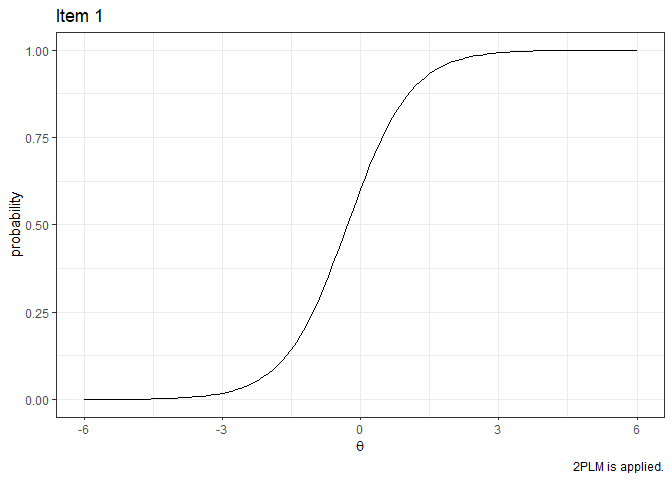
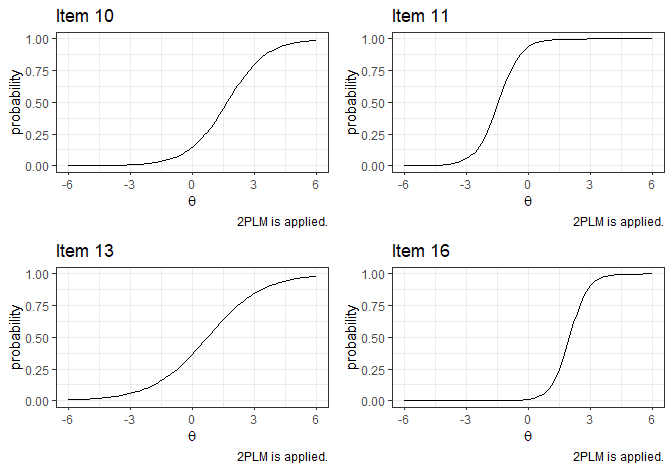
revise readme file

diff --git a/README.md b/README.md
@@ -27,21 +27,17 @@ distribution:
 + empirical histogram method,  
 + two-component Gaussian mixture distribution,  
 + Davidian curve,  
-+ kernel density estimation.
++ kernel density estimation, + log-linear smoothing.
 
 ## Installation
 
 The CRAN version of **IRTest** can be installed on R-console with:
 
-``` r
-install.packages("IRTest")
-```
+    install.packages("IRTest")
 
 For the development version, it can be installed on R-console with:
 
-``` r
-devtools::install_github("SeewooLi/IRTest")
-```
+    devtools::install_github("SeewooLi/IRTest")
 
 ## Functions
 
@@ -59,6 +55,8 @@ Followings are functions of **IRTest**.
 - `item_fit` tests the statistical fit of all items individually.
 
 - `plot_item` draws item response function(s) of an item.
+
+- `reliability` calculates marginal reliability coefficient of IRT.
 
 - `DataGeneration` generates several objects that can be useful for
   computer simulation studies. Among these are starting values for the
@@ -107,11 +105,11 @@ For an illustrative purpose, kernel density estimation (KDE) method is
 used for the estimation of latent distribution.
 
 ``` r
-Mod1 <- IRTest_Dich(data = data,
-                    model = "2PL",
-                    latent_dist = "KDE",
-                    threshold = .001
-                    )
+Mod1 <- 
+  IRTest_Dich(
+    data = data,
+    latent_dist = "KDE"
+    )
 ```
 
 - Summary of the result
@@ -119,12 +117,12 @@ Mod1 <- IRTest_Dich(data = data,
 ``` r
 summary(Mod1)
 #> Convergence:  
-#> Successfully converged below the threshold of 0.001 on 11st iterations. 
+#> Successfully converged below the threshold of 1e-04 on 22nd iterations. 
 #> 
 #> Model Fit:  
-#>    deviance   18382.98 
-#>         AIC   18464.98 
-#>         BIC   18666.2 
+#>    deviance   18382.97 
+#>         AIC   18464.97 
+#>         BIC   18666.19 
 #> 
 #> The Number of Parameters:  
 #>        item   40 
@@ -207,22 +205,22 @@ True item parameters
 |-----:|------:|----:|
 | 1.47 | -0.28 |   0 |
 | 1.22 | -0.97 |   0 |
-| 1.77 | -0.84 |   0 |
+| 1.78 | -0.84 |   0 |
 | 1.41 | -0.59 |   0 |
 | 1.81 | -0.16 |   0 |
-| 1.20 | -1.00 |   0 |
-| 1.99 | -0.49 |   0 |
+| 1.20 | -0.99 |   0 |
+| 1.99 | -0.48 |   0 |
 | 1.87 |  1.41 |   0 |
 | 1.14 |  1.51 |   0 |
 | 1.05 |  1.68 |   0 |
 | 1.85 | -1.46 |   0 |
 | 2.20 | -0.05 |   0 |
-| 0.75 |  0.72 |   0 |
+| 0.75 |  0.73 |   0 |
 | 2.19 | -0.01 |   0 |
-| 1.54 | -1.10 |   0 |
+| 1.55 | -1.10 |   0 |
 | 2.25 |  1.99 |   0 |
-| 2.17 | -0.69 |   0 |
-| 2.40 |  1.77 |   0 |
+| 2.17 | -0.68 |   0 |
+| 2.41 |  1.77 |   0 |
 | 1.18 |  0.94 |   0 |
 | 1.90 | -0.71 |   0 |
 
@@ -237,8 +235,10 @@ Estimated item parameters
 
 
 ### Plotting
-par(mfrow=c(1,2))
-plot(item[,2], Mod1$par_est[,2], xlab = "true", ylab = "estimated", main = "item parameters")
+par(mfrow=c(1,3))
+plot(item[,1], Mod1$par_est[,1], xlab = "true", ylab = "estimated", main = "item discrimination parameters")
+abline(a=0,b=1)
+plot(item[,2], Mod1$par_est[,2], xlab = "true", ylab = "estimated", main = "item difficulty parameters")
 abline(a=0,b=1)
 plot(theta, Mod1$theta, xlab = "true", ylab = "estimated", main = "ability parameters")
 abline(a=0,b=1)
@@ -304,33 +304,37 @@ ggplot(data=post_sample, mapping=aes(x=X))+
 ``` r
 item_fit(Mod1)
 #>         stat df p.value
-#> 1  13.469663  7  0.0615
-#> 2   8.541813  7  0.2872
-#> 3  19.524974  7  0.0067
-#> 4   7.045802  7  0.4241
-#> 5  10.720393  7  0.1513
-#> 6  13.874404  7  0.0535
-#> 7   4.784380  7  0.6863
-#> 8  14.962374  7  0.0365
-#> 9   9.451649  7  0.2218
-#> 10 16.720180  7  0.0193
-#> 11  6.249525  7  0.5109
-#> 12  9.739056  7  0.2038
-#> 13  7.305287  7  0.3978
-#> 14 26.481248  7  0.0004
-#> 15 18.232721  7  0.0110
-#> 16 17.149747  7  0.0165
-#> 17  9.989355  7  0.1892
-#> 18 38.244264  7  0.0000
-#> 19 19.537622  7  0.0067
-#> 20 11.457360  7  0.1199
+#> 1  13.434320  7  0.0622
+#> 2   8.564615  7  0.2854
+#> 3  19.491468  7  0.0068
+#> 4   7.035466  7  0.4252
+#> 5  10.715746  7  0.1515
+#> 6  13.888048  7  0.0532
+#> 7   4.768391  7  0.6882
+#> 8  14.948235  7  0.0367
+#> 9   9.457740  7  0.2214
+#> 10 16.716254  7  0.0193
+#> 11  6.237493  7  0.5123
+#> 12  9.749979  7  0.2032
+#> 13  7.302189  7  0.3981
+#> 14 26.481630  7  0.0004
+#> 15 18.217503  7  0.0110
+#> 16 17.142660  7  0.0165
+#> 17  9.973517  7  0.1901
+#> 18 38.315609  7  0.0000
+#> 19 19.524826  7  0.0067
+#> 20 11.424843  7  0.1211
 ```
 
 - Item response function
 
 ``` r
 # Item response function of Item 1
-plot_item(Mod1,1)
+p1 <- plot_item(Mod1,10)
+p2 <- plot_item(Mod1,11)
+p3 <- plot_item(Mod1,13)
+p4 <- plot_item(Mod1,16)
+grid.arrange(p1, p2, p3, p4, ncol=2, nrow=2)
 ```
 
 <img src="man/figures/README-unnamed-chunk-4-1.png" width="100%" />
@@ -339,5 +343,6 @@ plot_item(Mod1,1)
 
 ``` r
 reliability(Mod1)
-#> [1] 0.8797212
+#> test reliability 
+#>        0.8798695
 ```

diff --git a/NEWS.md b/NEWS.md
@@ -1,5 +1,7 @@
 # IRTest 1.7.0
 
+* Log-linear smoothing method (`latent_dist = "LLS"`) can be applied to estimate a latent distribution.
+
 # IRTest 1.6.0
 
 * `reliability` has been developed to calculate marginal reliability coefficient of IRT.
